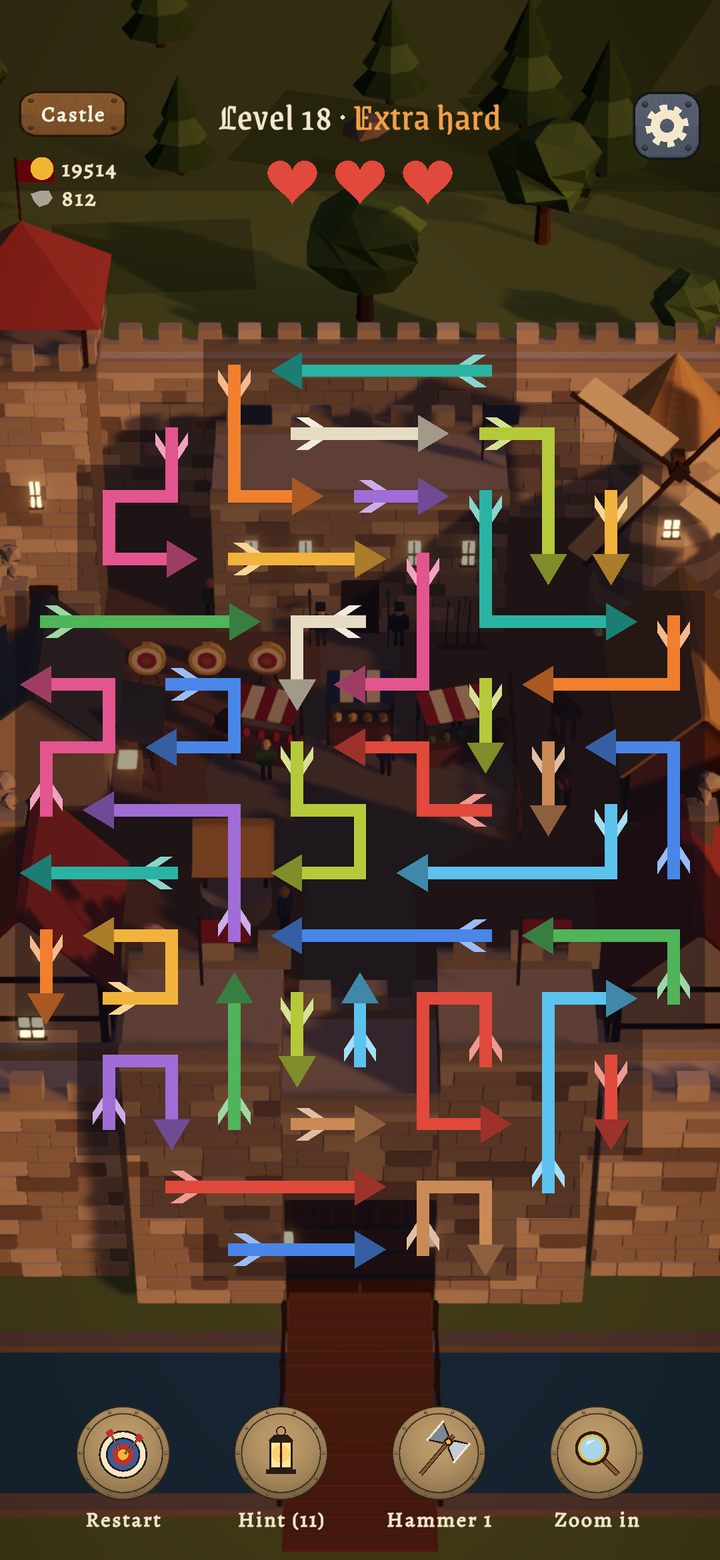
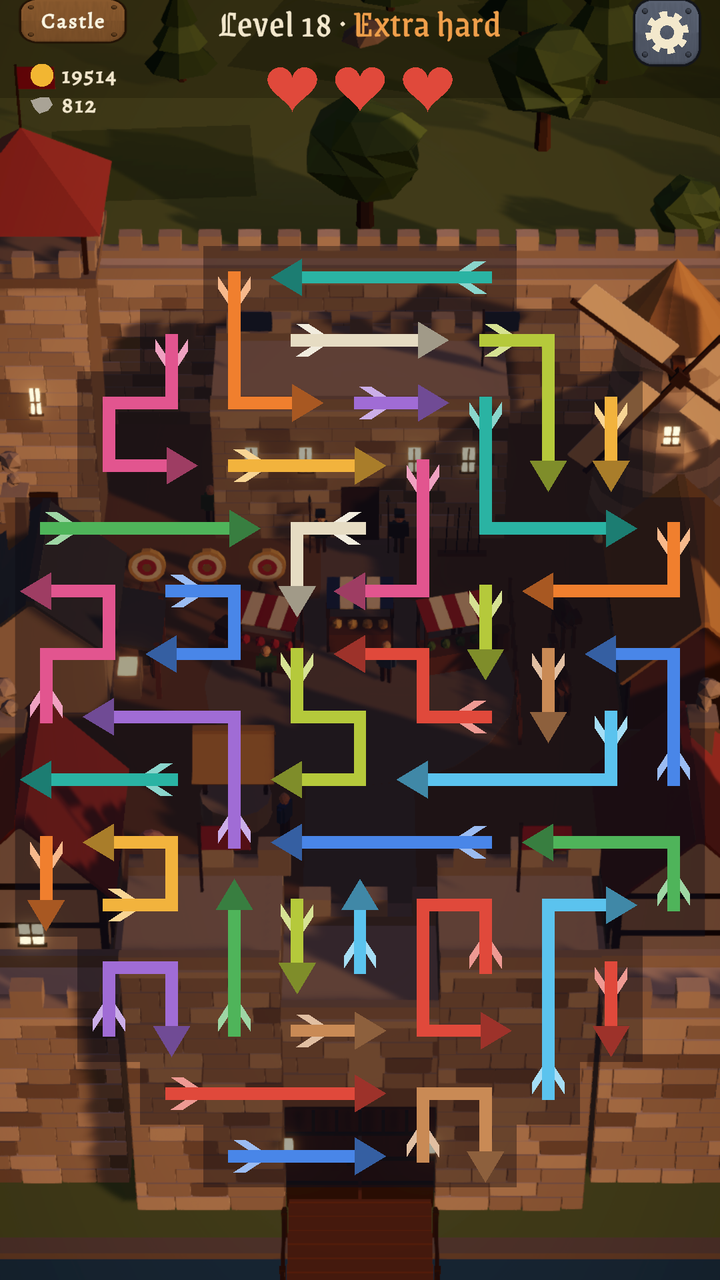
Arrowkeep screenshots in the same 9:16 shape as the other games

diff --git a/index.html b/index.html
@@ -79,7 +79,7 @@
           <div><h2>Arrowkeep: Archery &amp; Puzzles</h2><p>Free the arrows, hit the mark, build your keep.</p></div>
         </a>
         <p>Every arrow slides the way its head points. Tap them out in the right order to clear the board; send one into another and it crashes, costing a heart. Locked arrows wait for their keys, and portals send arrows across the board.</p>
-        <div class="shots"><img class="shot" src="assets/screenshots/arrowkeep-game.png" width="1080" height="2340" loading="lazy" alt="Arrowkeep An arrow puzzle before the castle"><img class="shot" src="assets/screenshots/arrowkeep-map.png" width="1080" height="2340" loading="lazy" alt="Arrowkeep A finished castle"></div>
+        <div class="shots"><img class="shot" src="assets/screenshots/arrowkeep-game.png" width="1080" height="1920" loading="lazy" alt="Arrowkeep An arrow puzzle before the castle"><img class="shot" src="assets/screenshots/arrowkeep-map.png" width="1080" height="1920" loading="lazy" alt="Arrowkeep A finished castle"></div>
         <div class="card-actions"><span class="store-btn soon">Coming soon to Google Play</span></div>
         <div class="card-actions"><a class="text-link" href="arrowkeep/">More about the game</a><a class="text-link" href="arrowkeep/privacy/">Privacy policy</a></div>
       </article>

diff --git a/arrowkeep/index.html b/arrowkeep/index.html
@@ -38,7 +38,7 @@
         <li>Free to play, supported by ads</li>
       </ul>
     </section>
-    <div class="shots"><img class="shot" src="../assets/screenshots/arrowkeep-game.png" width="1080" height="2340" loading="lazy" alt="Arrowkeep An arrow puzzle before the castle"><img class="shot" src="../assets/screenshots/arrowkeep-map.png" width="1080" height="2340" loading="lazy" alt="Arrowkeep A finished castle"></div>
+    <div class="shots"><img class="shot" src="../assets/screenshots/arrowkeep-game.png" width="1080" height="1920" loading="lazy" alt="Arrowkeep An arrow puzzle before the castle"><img class="shot" src="../assets/screenshots/arrowkeep-map.png" width="1080" height="1920" loading="lazy" alt="Arrowkeep A finished castle"></div>
     <p class="center"><a class="text-link" href="privacy/">Privacy policy for Arrowkeep: Archery &amp; Puzzles</a></p>
   </main>
   <footer class="site-footer" id="contact">
